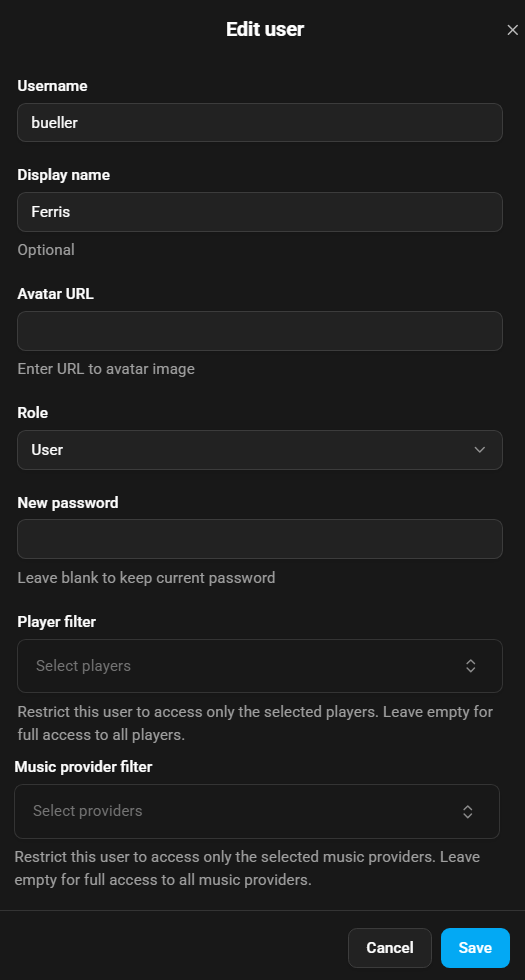
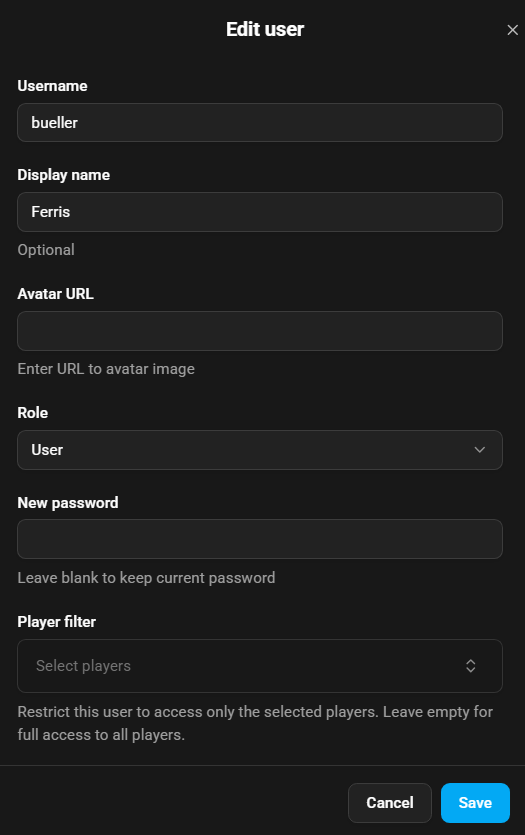
Document personal music sources and playlist sharing
Music sources have an owner and a sharing setting instead of a per-user allow-list, and Music Assistant playlists can be shared.

diff --git a/src/content/docs/settings/user-management.md b/src/content/docs/settings/user-management.md
@@ -21,12 +21,35 @@ On the right side of each username is a ⋮ menu which has four menu items
 
 The dialog shown above appears when clicking on a username or via the ⋮ menu.
 
-Each user can be restricted to a specific set of players. Restricted users automatically gain access to any new browser window, desktop app, or mobile companion app player(s) linked to their profile. Additionally, restricting users to certain music sources offers two benefits: only these sources are used when initiating playback, and listening statistics are accurately attributed to a user's source streaming account.
+Each user can be restricted to a specific set of players. Restricted users automatically gain access to any new browser window, desktop app, or mobile companion app player(s) linked to their profile. Which music sources a user can use is not set here. Each music source has an owner and a sharing setting instead, described below.
 
-> [!CAUTION]
-> When music sources are removed from MA then the entries are cleaned up from any users that had them as a restriction. However, if this results in a user having no more music source restrictions then they will be able to access the complete library.
+## Personal and shared music sources
 
-### Audiobook and podcast progress sync in a multi-user environment
+Every music source is either shared or personal.
+
+- <b>Shared.</b> The source has no owner, and administrators manage it. A source an administrator adds is shared with everyone.
+- <b>Personal.</b> The source belongs to one member. Playback and listening history use that member's account, also when someone they shared it with is listening.
+
+Who else can use a source depends on its sharing:
+
+- <b>Only me.</b> Only the owner. Administrators see this as Not shared
+- <b>Selected members.</b> The owner and the members you pick
+- <b>All members.</b> Every signed-in member, but not guests
+- <b>Everyone, including guests.</b> Any user
+
+An administrator sets the owner and the sharing with <b>Access</b> in the source's ⋮ menu under [Settings → Music Sources](/settings/music-provider-settings/#owner-and-sharing). The owner of a personal source changes who it is shared with through <b>Sharing</b> in the same menu. Only an administrator can change the owner.
+
+Users only see what comes from the music sources they can use, in the library, when browsing and in search. That includes administrators, although they see every source in the settings so they can manage it. When you play something, Music Assistant uses your own accounts first and never uses an account that is not shared with you.
+
+### Adding your own music sources
+
+Members can add music sources of their own when their role allows it, which the standard User role does. They find <b>Music Sources</b> in the settings, with the sources they own. There they can connect their own account for a service that can be added more than once, such as Spotify or Tidal, and reconfigure, share or remove it. A source a member adds starts out as Only me.
+
+Local disk sources are the exception. Only an administrator can add one, and can then share it with a member or make that member its owner.
+
+### Audiobook and podcast progress
 
 <a name="filter-progress-multi-user"></a>
-Some podcast and/or audiobook sources, such as [Audiobookshelf](/music-providers/audiobookshelf/), [Audible](/music-providers/audible/) and [Storytel](/music-providers/storytel/), allow syncing the progress of media items. By assigning such a source to only a certain user via the music source filter function, the progress is then only synced with this individual user, instead of all users. By setting up these music sources multiple times individual user syncing can be achieved by correctly assigning the source via the filter function.
+Some audiobook and podcast sources, such as [Audiobookshelf](/music-providers/audiobookshelf/), [Audible](/music-providers/audible/), [gPodder](/music-providers/gpodder/) and [Overcast](/music-providers/overcast/), keep your listening progress on the account the source signs in with. The progress and listening history that come from that account go to the owner of the source. A shared source has no owner, so its progress counts for everyone.
+
+To give each member their own progress, add the source once for each member with that member's own account, and make that member its owner. A source that can only be added once, such as [Storytel](/music-providers/storytel/), has a single account, so it cannot give each member their own progress.

diff --git a/src/content/docs/usage.md b/src/content/docs/usage.md
@@ -108,6 +108,12 @@ MA automatically generates some dynamic playlists. These playlists will be updat
 
 There are also two pseudo-playlists, the Infinite Mixes (one based on the whole library and one on the favorites). Viewing these playlists shows no tracks; playing one results in an endless queue where 25 random tracks are added and refreshed as the queue comes to an end.
 
+### Sharing a playlist
+
+A playlist you create on Music Assistant itself, rather than on a music source, belongs to you, and at first only you can see it. To share it, open the playlist and select the share icon, or **Share playlist** in its ⋮ menu. You can share it with selected members, all members, or everyone, including guests. Turn on **Collaborative** to let them add and remove tracks too. Administrators can also change who owns a playlist.
+
+The page of a Music Assistant playlist shows who it belongs to and who it is shared with. A playlist that comes from a music source, such as one of your Spotify playlists, is visible to everyone who can use that source. **Add to Playlist** only offers the playlists you can edit.
+
 ### Playlist Artwork
 
 MA will use the artwork supplied from the streaming providers. For local providers MA will create a collage based on the tracks in the playlist. Alternatively, for the local file system providers, an image which has the same prefix as the playlist will be used (eg. mix.m3u and mix.jpg)

diff --git a/src/content/docs/settings/music-provider-settings.md b/src/content/docs/settings/music-provider-settings.md
@@ -7,3 +7,7 @@ title: "Music Source Settings"
 All [Music Sources](/music-providers/) have settings which can be configured. The settings page will look similar to the following. The question mark icon in the top right is a hyperlink to the relevant page in this documentation. Specific help for a setting or configurable field is often available and is accessed by selecting this icon ![question mark](/assets/icons/question-mark.png). All sources can be given a custom name and disabled if necessary. The log level can be adjusted for all sources and this is found by enabling the "Show advanced settings" toggle. (Do not select Verbose unless asked for by a dev as it can have an adverse performance impact). See the specific music source pages for source specific settings.
 
 ![image](/assets/screenshots/music-provider-settings.png)
+
+## Owner and sharing
+
+Every source in **Settings → Music Sources** shows who owns it and who can use it, such as `Shared (no owner) · Everyone, including guests` or `Sam · Shared with 2 members`. An administrator changes both with <b>Access</b> in the source's ⋮ menu. The owner of a personal source finds <b>Sharing</b> there instead, to choose who else can use it. [Personal and shared music sources](/settings/user-management/#personal-and-shared-music-sources) explains each option.

diff --git a/src/content/docs/music-providers/index.md b/src/content/docs/music-providers/index.md
@@ -21,6 +21,8 @@ How much of a source ends up in that library is up to you. Each one has its own 
 
 Go to [**Settings → Music Sources → Add a music source**](/settings/music-provider-settings/) and pick the one you want. Each source has its own page in this section covering what it offers and how to set it up.
 
+A source an administrator adds is shared with everyone. Members can also add their own account for a service that can be added more than once, and only they can use it until they share it. See [Personal and shared music sources](/settings/user-management/#personal-and-shared-music-sources).
+
 If you remove a source, the database is cleaned up afterwards, which takes a little while. If you still see entries from a deleted source after some time, restart MA to retrigger the cleanup.
 
 > [!TIP]

diff --git a/src/content/docs/music-providers/overcast.md b/src/content/docs/music-providers/overcast.md
@@ -66,7 +66,7 @@ Music Assistant signs in once and keeps the resulting session, so your credentia
 
 ### Multiple accounts
 
-The Overcast source can be set up multiple times, once per account, and each one keeps its own sign in. To have the progress of individual media items sync with the right Music Assistant user please refer to [user management](/settings/user-management/#filter-progress-multi-user).
+The Overcast source can be set up multiple times, once per account, and each one keeps its own sign in. To give each member their own progress, add a source for each of them with their own account, and make them its owner. See [audiobook and podcast progress](/settings/user-management/#audiobook-and-podcast-progress).
 
 ### Settings
 

diff --git a/src/content/docs/music-providers/gpodder.md b/src/content/docs/music-providers/gpodder.md
@@ -63,9 +63,7 @@ To setup this functionality, you need the `Nextcloud URL`, and then click the AU
 
 ### Multi-user environment
 
-The gpodder provider can be set up multiple times for individual users.
-To achieve correct syncing of the progress of individual media items with an MA
-user please refer to [user management](/settings/user-management/#filter-progress-multi-user).
+The gPodder source can be added once for each gPodder account. The gPodder server keeps progress per account. To give each member their own progress, add a source for each of them with their own account, and make them its owner. See [audiobook and podcast progress](/settings/user-management/#audiobook-and-podcast-progress).
 
 ### Settings
 

diff --git a/src/content/docs/music-providers/audiobookshelf.md b/src/content/docs/music-providers/audiobookshelf.md
@@ -105,9 +105,7 @@ The following is needed to setup this provider:
 
 ### Multi-user environment
 
-The audiobookshelf provider can be set up multiple times for individual users.
-To achieve correct syncing of the progress of individual media items with an MA
-user please refer to [user management](/settings/user-management/#filter-progress-multi-user).
+The Audiobookshelf source can be added once for each Audiobookshelf user. Audiobookshelf keeps progress per account. To give each member their own progress, add a source for each of them with their own login, and make them its owner. See [audiobook and podcast progress](/settings/user-management/#audiobook-and-podcast-progress).
 
 ### Advanced Settings
 
